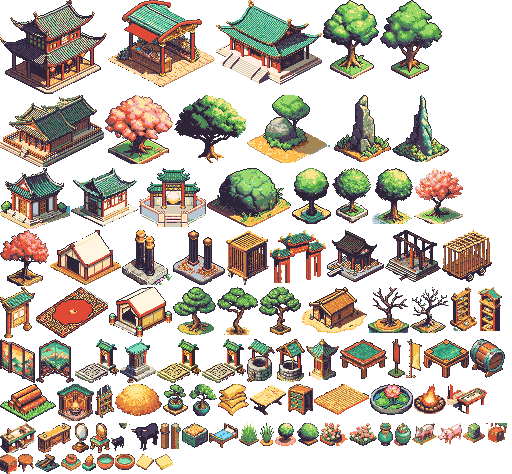
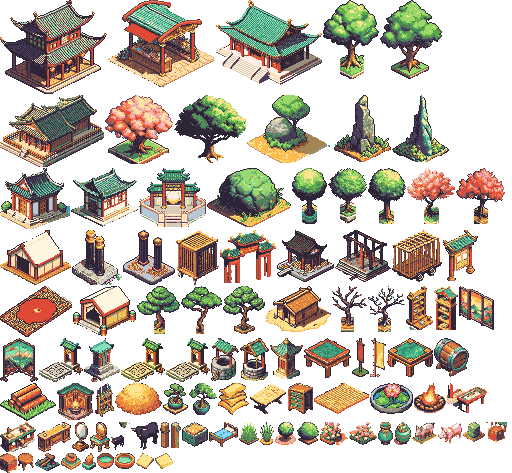
Genshin: inn and house 2 mirrored so their entrance is on the door's face; trees cut off their raised squares; rooms' unused map blends into the background
Claude-Session: https://claude.ai/code/session_01CG7crrkzqt1vmaeQ7L7w6w

diff --git a/tk-iso.js b/tk-iso.js
@@ -33,9 +33,11 @@ const WorldIso = {
     floor.add(scene.add.image(0, 0, key).setOrigin(0, 0).setRotation(Math.PI / 4).setScale(Math.SQRT2));
     floor.isoFixed = true;
     const iso = scene.iso = { P, inv, W, H, floor, width: W + H, height: (W + H) / 2 };
-    // outdoors, the corners beyond the diamond are more country (the kit's "isoVoid" colour); rooms stay dark
-    const kit = scene.kit || {};
-    if (kit.isoVoid && !String(scene.placeId).includes("--")) scene.cameras.main.setBackgroundColor(kit.isoVoid);
+    // beyond the map's diamond: outdoors more country (the kit's "isoVoid" colour); indoors the void the
+    // room is drawn on, so the unused part of the map doesn't show as a slab under the room
+    const kit = scene.kit || {}, indoor = String(scene.placeId).includes("--");
+    const back = indoor ? kit.materials && kit.materials.void && kit.materials.void.color : kit.isoVoid;
+    if (back) scene.cameras.main.setBackgroundColor(back);
 
     // the view's depth: how far down the screen an object's feet are. Objects drawn above everything
     // (marks, emotes, flashes: depth >= 9000) and behind everything (<= -9000) keep theirs; the rest

diff --git a/tk-world.js b/tk-world.js
@@ -215,7 +215,7 @@ function worldScenes() {
       this.opts = this.game.worldOpts;
       const { w, kit } = this.opts;
       this.load.json("region", `data/tk_maps/w${w.n}/region.json?v=31`);
-      this.load.json("kit", `assets/tk/kits/${kit}.json?v=27`);
+      this.load.json("kit", `assets/tk/kits/${kit}.json?v=28`);
       this.load.json("cutscenes", `data/tk_maps/w${w.n}/cutscenes.json?v=31`);
     }
     create() {
@@ -457,6 +457,7 @@ function worldScenes() {
           WorldIso.anchor(this, img, o.x, o.y - p.fh / 2, p.fw, p.fh);   // stands on its footprint
           if (WORLD_CLUTTER.test(p.kind)) img.setDepth(img.depth - 400);   // a rug still lies underfoot
         }
+        if (this.iso && (this.kit.isoFlip || []).includes(o.name)) img.setFlipX(true);   // its entrance on the door's face
         if (p.kind === "landmark.shrine") {   // the Star Lords' shrine: its look follows the story (setShrine)
           this.shrine = { img, x: o.x, y: o.y, state: "dark", fx: [] };
           this.setShrine(TK.shrineState?.(this.w.n, this.placeId) || "dark");

diff --git a/index.html b/index.html
@@ -26,8 +26,8 @@
 <script src="engine/engine-utils.js"></script>
 <script src="tk.js?v=66"></script>
 <script src="tk-town.js?v=25"></script>
-<script src="tk-iso.js?v=4"></script>
-<script src="tk-world.js?v=110"></script>
+<script src="tk-iso.js?v=5"></script>
+<script src="tk-world.js?v=112"></script>
 <script src="tk-items.js?v=7"></script>
 <script src="tk-cutscene.js?v=35"></script>
 <script src="tk-music.js?v=4"></script>

diff --git a/tools/build_xianxia_kit.py b/tools/build_xianxia_kit.py
@@ -22,7 +22,7 @@ from PIL import Image
 ROOT = Path(__file__).resolve().parent.parent
 sys.path.insert(0, str(ROOT / "tools"))
 from build_jade_edges import block  # noqa: E402
-from xianxia_spec import GENSHIN_BAD, GENSHIN_DROP, PROPS_GEN, PROPS_SKIP, CHAR_PICK, DRAWN_GROUND, HERO_H, INTERIOR, OBJECTS, REDO  # noqa: E402
+from xianxia_spec import GENSHIN_BAD, GENSHIN_DROP, GENSHIN_FLIP, GENSHIN_UNPLATE, PROPS_GEN, PROPS_SKIP, CHAR_PICK, DRAWN_GROUND, HERO_H, INTERIOR, OBJECTS, REDO  # noqa: E402
 import random  # noqa: E402
 
 T = 16
@@ -60,6 +60,33 @@ def fit(im, box):
     if s < 1:
         small = im.resize((max(1, round(im.width * s)), max(1, round(im.height * s))), Image.Resampling.BOX)
         im = quantize_like(small, im, 110)
+    return im
+
+
+def unplate(im):
+    """A tree without the raised square of ground it was drawn on. From the bottom up, rows as wide as
+    the square are the square, until a row as narrow as the trunk: below that only the trunk's columns stay."""
+    im = im.convert("RGBA")
+    a = im.getchannel("A")
+    w, h = im.size
+    rows = []
+    for y in range(h):
+        xs = [x for x in range(w) if a.getpixel((x, y)) > 40]
+        rows.append((xs[0], xs[-1]) if xs else None)
+    bottom = max(y for y in range(h) if rows[y])
+    width = lambda y: rows[y][1] - rows[y][0] if rows[y] else 0
+    wide = max(range(int(h * .6), bottom + 1), key=width)   # the square's widest row (its side corners)
+    y = wide
+    while y > 0 and width(y) > w * .22:
+        y -= 1
+    if not rows[y] or wide - y < 2 or y < h * .4 or width(wide) < w * .4:   # no square found: as drawn
+        return im
+    x0, x1 = rows[y][0] - 1, rows[y][1] + 1          # the trunk where it meets the square
+    px = im.load()
+    for yy in range(y + 1, h):
+        for x in range(w):
+            if not (x0 <= x <= x1):
+                px[x, yy] = (0, 0, 0, 0)
     return im
 
 
@@ -202,7 +229,7 @@ def main():
     edges.save(OUT / "edges.png")
 
     # objects
-    items, made = [], {}
+    items, made, flip = [], {}, []
     for kind, (_, box, _) in {**OBJECTS, **INTERIOR, **{k: v for k, v in PROPS_GEN.items() if k not in PROPS_SKIP}}.items():
         # a piece that came out wrong is used only once its second try exists
         where = [d for d in src if d.name in ("xianxia-redo", "genshin", "genshin-redo2")] if kind in REDO else src
@@ -211,7 +238,12 @@ def main():
         ok = lambda v: (v.stem not in GENSHIN_DROP and f"{v.parent.name}/{v.stem}" not in GENSHIN_DROP
                         if v.parent.name.startswith("genshin") else v.stem not in DROP)   # a dropped try: the folder before's
         for k, p in enumerate(variants(where, kind, ok)):
-            items.append((f"{kind}#{k}", fit(Image.open(p), iso_box(box) if p.parent.name.startswith("genshin") else box)))
+            im = Image.open(p)
+            if p.parent.name.startswith("genshin") and kind.startswith(GENSHIN_UNPLATE):
+                im = unplate(im)
+            items.append((f"{kind}#{k}", fit(im, iso_box(box) if p.parent.name.startswith("genshin") else box)))
+            if p.parent.name.startswith("genshin") and p.stem in GENSHIN_FLIP:
+                flip.append(f"{kind}#{k}")
             made.setdefault(kind, []).append(f"{kind}#{k}")
     sheet, pos = pack(items)
     sheet.save(OUT / "objects.png")
@@ -226,6 +258,7 @@ def main():
         kit["iso"] = True   # tk-iso.js: the world drawn isometrically
         kit["dialogue"] = "genshin"   # tk-town.js: painted portraits, the Genshin dialogue box
         kit["isoVoid"] = "#%02x%02x%02x" % COL["grass"][3]   # beyond the map's diamond: darker grass
+        kit["isoFlip"] = flip   # mirrored in the game: their entrance on the door's face
     kit["materials"]["grass"] = {"tiles": [["x_tiles", i, row["grass"], 3 if i == 0 else 1]
                                            for i in range(len(ground["grass"]))]}
     for i, (m, _, _) in enumerate(edged):

diff --git a/tools/xianxia_spec.py b/tools/xianxia_spec.py
@@ -190,3 +190,8 @@ GENSHIN_DROP = {"furn.stool-1", "prop.pond-1", "rock.small-2", "ruin.rubble-2", 
 # and so did "Liyue". This wording never mentions architecture at all.
 GENSHIN_ITEM = ("a single {p} by itself, centred, game item sprite, bright saturated anime colours "
                 "like Genshin Impact, soft cel shading, clean outline")
+# isometric art whose entrance is drawn on the lower-right face: the door is on the footprint's south edge,
+# which the isometric view puts lower-left, so the game mirrors these (kit "isoFlip")
+GENSHIN_FLIP = {"building.inn-1", "building.house-2"}
+# trees drawn standing on a raised square of ground: the square is cut away, the trunk kept
+GENSHIN_UNPLATE = ("tree.",)
